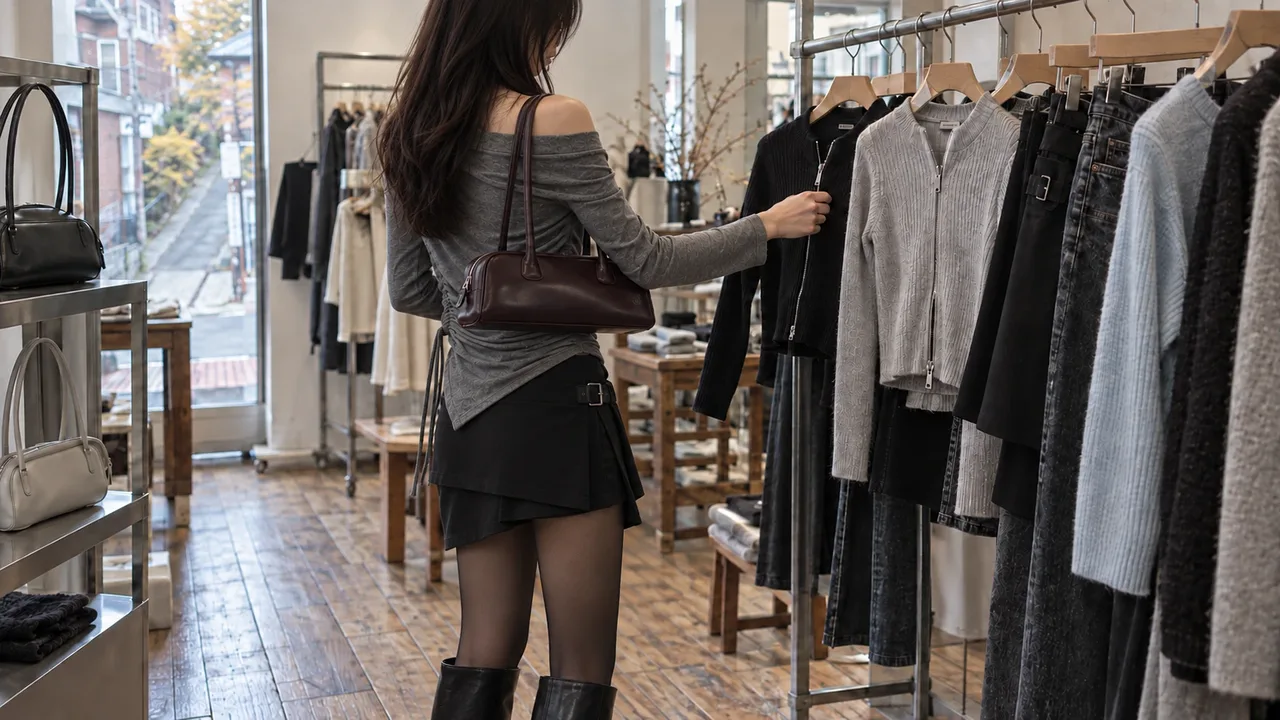
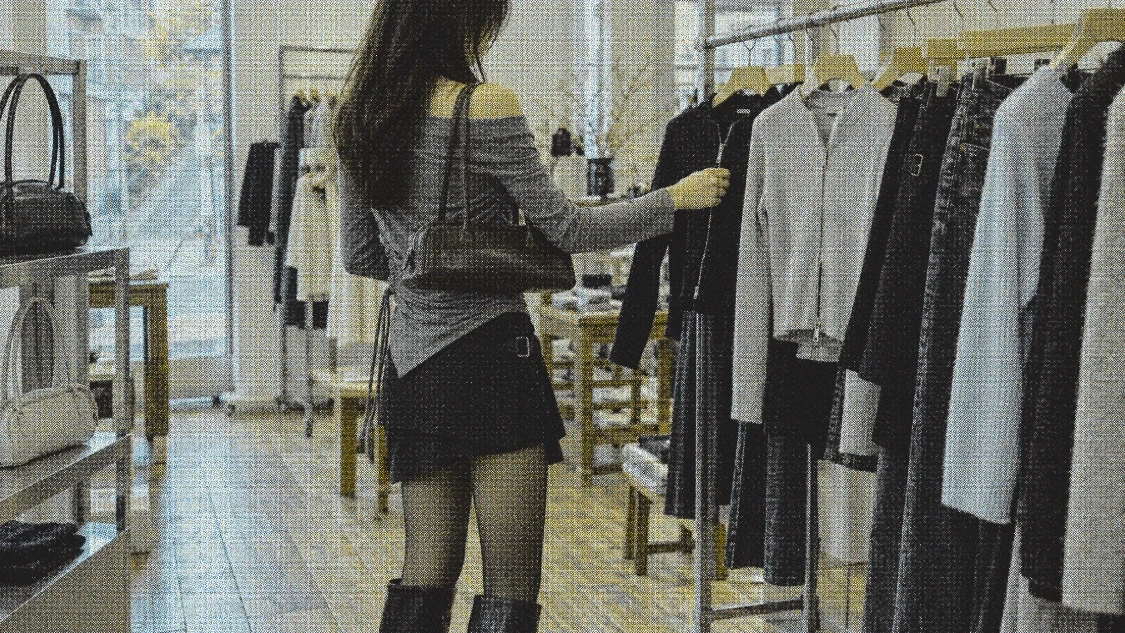
About 이미지 4장을 망점 질감 버전으로 교체

diff --git a/index.html b/index.html
@@ -111,25 +111,25 @@
 
         <ul class="values reveal">
           <li class="value">
-            <img class="value__image" src="src/assets/about-editor-curation.webp?v=2" alt="매장 옷걸이에서 집업 니트를 골라 보는 모습" data-i18n-alt="about-value-1-alt" width="960" height="540" loading="lazy" decoding="async">
+            <img class="value__image" src="src/assets/about-editor-curation.webp?v=5" alt="매장 옷걸이에서 집업 니트를 골라 보는 모습" data-i18n-alt="about-value-1-alt" width="960" height="540" loading="lazy" decoding="async">
             <span class="value__index">01</span>
             <h3 class="value__title" data-i18n="about-value-1-title">에디터 큐레이션</h3>
             <p class="value__desc" data-i18n="about-value-1-desc">에디터가 직접 엄선한 매장 추천</p>
           </li>
           <li class="value">
-            <img class="value__image" src="src/assets/about-local-discovery.webp?v=3" alt="서울 골목의 패션 매장 앞을 함께 걷는 모습" data-i18n-alt="about-value-2-alt" width="960" height="540" loading="lazy" decoding="async">
+            <img class="value__image" src="src/assets/about-local-discovery.webp?v=5" alt="서울 골목의 패션 매장 앞을 함께 걷는 모습" data-i18n-alt="about-value-2-alt" width="960" height="540" loading="lazy" decoding="async">
             <span class="value__index">02</span>
             <h3 class="value__title" data-i18n="about-value-2-title">로컬 발견</h3>
             <p class="value__desc" data-i18n="about-value-2-desc">서울 패션 피플들이 방문하는 지역 위주</p>
           </li>
           <li class="value">
-            <img class="value__image" src="src/assets/about-multilingual-experience.webp?v=4" alt="에디터와 함께 매장 직원에게 니트를 안내받는 모습" data-i18n-alt="about-value-3-alt" width="960" height="540" loading="lazy" decoding="async">
+            <img class="value__image" src="src/assets/about-multilingual-experience.webp?v=5" alt="에디터와 함께 매장 직원에게 니트를 안내받는 모습" data-i18n-alt="about-value-3-alt" width="960" height="540" loading="lazy" decoding="async">
             <span class="value__index">03</span>
             <h3 class="value__title" data-i18n="about-value-3-title">다국어 경험</h3>
             <p class="value__desc" data-i18n="about-value-3-desc">관광객 언어로 소통</p>
           </li>
           <li class="value">
-            <img class="value__image" src="src/assets/about-brand-partnerships.webp?v=3" alt="브랜드 작업실 테이블에서 재킷과 원단, 룩북을 함께 살펴보는 모습" data-i18n-alt="about-value-4-alt" width="960" height="540" loading="lazy" decoding="async">
+            <img class="value__image" src="src/assets/about-brand-partnerships.webp?v=5" alt="브랜드 작업실 테이블에서 재킷과 원단, 룩북을 함께 살펴보는 모습" data-i18n-alt="about-value-4-alt" width="960" height="540" loading="lazy" decoding="async">
             <span class="value__index">04</span>
             <h3 class="value__title" data-i18n="about-value-4-title">브랜드 파트너십</h3>
             <p class="value__desc" data-i18n="about-value-4-desc">한국에만 있는 브랜드와의 협업</p>
